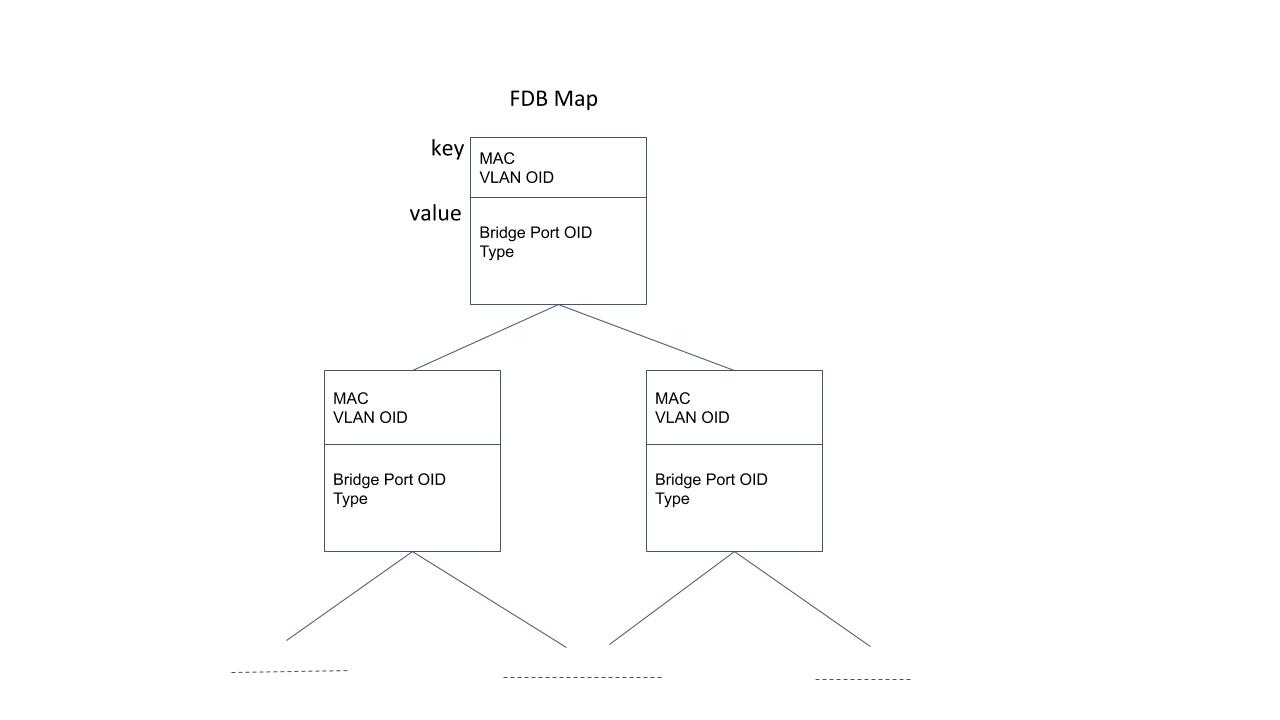
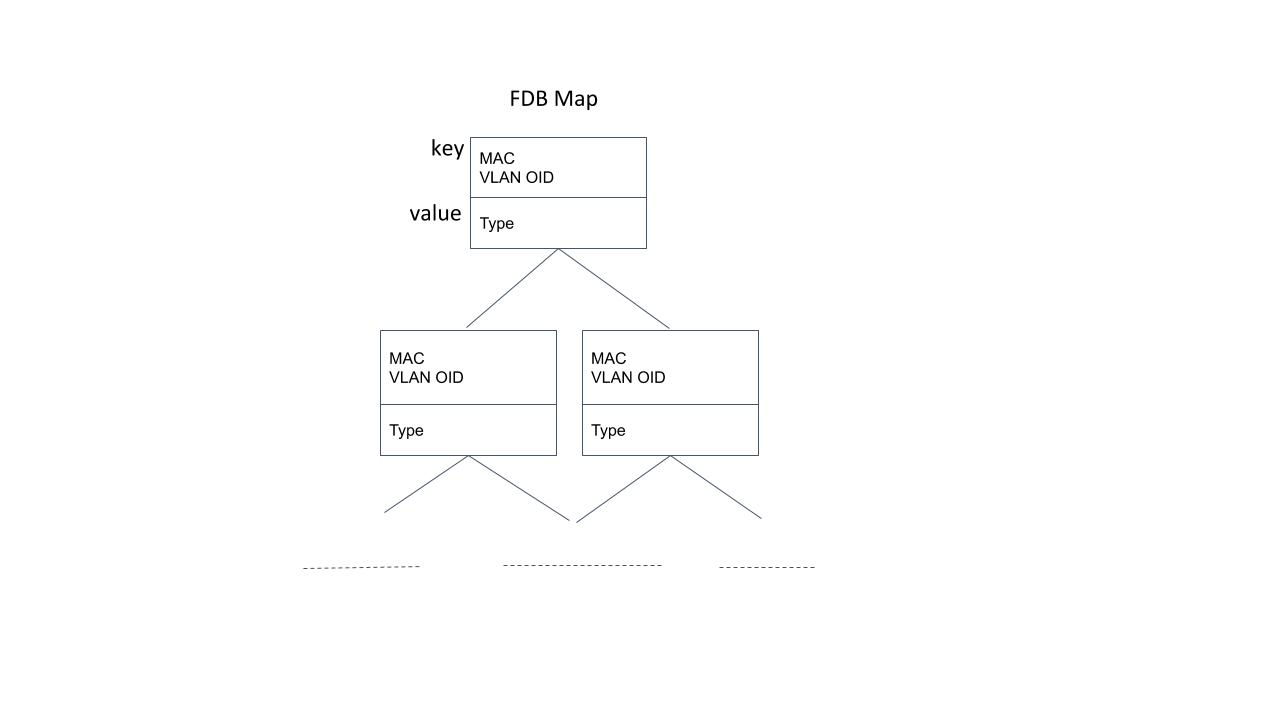
exclude bridge_port_id in fdb data structure
Updated to exclude bridge_port_id in Orchagent FDB data structure as it is not needed for bulk flush. We only need the FDB type.

diff --git a/doc/layer2-forwarding-enhancements/SONiC Layer 2 Forwarding Enhancements HLD.md b/doc/layer2-forwarding-enhancements/SONiC Layer 2 Forwarding Enhancements HLD.md
@@ -110,7 +110,7 @@ This document describes the high level design of Layer 2 Forwarding Enhancements
 
 
 ## 1.4 Warm Boot Requirements
-None
+Warm boot support already exists.
 
 
 # 2 Functionality
@@ -187,8 +187,8 @@ SWITCH_TABLE will be set in CONFIG_DB to store FDB aging time configuration.
 **Data Structure changes**
 
 
-The internal FDB data structure  will be enhanced to store Bridge Port OID and FDB type information. Currently, FDB is stored as c++ set. It will be changed to c++ map to store (key, value), where key is (MAC, bv_id) and value is (bridge_port_oid, type).
-Bridge Port OID and type are needed to add Static FDB to saved FDB after flush.
+The internal FDB data structure  will be enhanced to store the FDB type (static/dynamic). Currently, FDB is stored as c++ set. It will be changed to c++ map to store (key, value), where key is (MAC, bv_id) and value is (bridge_port_oid, type).
+FDB type is needed to add Static FDB to saved FDB after flush.
 
 
 	**FDB Data structure in Orchagent:**
@@ -196,7 +196,7 @@ Bridge Port OID and type are needed to add Static FDB to saved FDB after flush.
 
 <img src="images/fdbDataStructure.jpg" width="800" height="500">
 
-In current Sonic implementation, when a FDB event is received with VLAN SAI object ID, the VLAN ID is retrieved by traversing through all the ports and VLANs in the orchagent DB and finding the one that matches the object ID. Also, the Port details are retrieved by traversing all the port and VLANs. This approach is inefficient as it may traverse through the number of VLANs configured for each FDB learn event.
+In current Sonic implementation, when a FDB event is received with VLAN SAI object ID, the VLAN ID is retrieved by traversing through all the ports and VLANs in the orchagent DB and finding the one that matches the object ID. Also, the Port details are retrieved by traversing all the port and VLANs. This approach is inefficient as it may traverse through the number of VLANs configured for each FDB learn event. Worst case time is O(M*N) where M is the number of MAC events and N is the number of entries in port data structure.
 
 
 A new  unordered_map containing a mapping between SAI object ID (can be either Port object ID or Bridge Port object ID or VLAN object ID) and Name (port or VLAN alias) will be added which can be looked up in O(1) time. The Port or VLAN alias retrieved from this will be looked up in the Port data structure.
